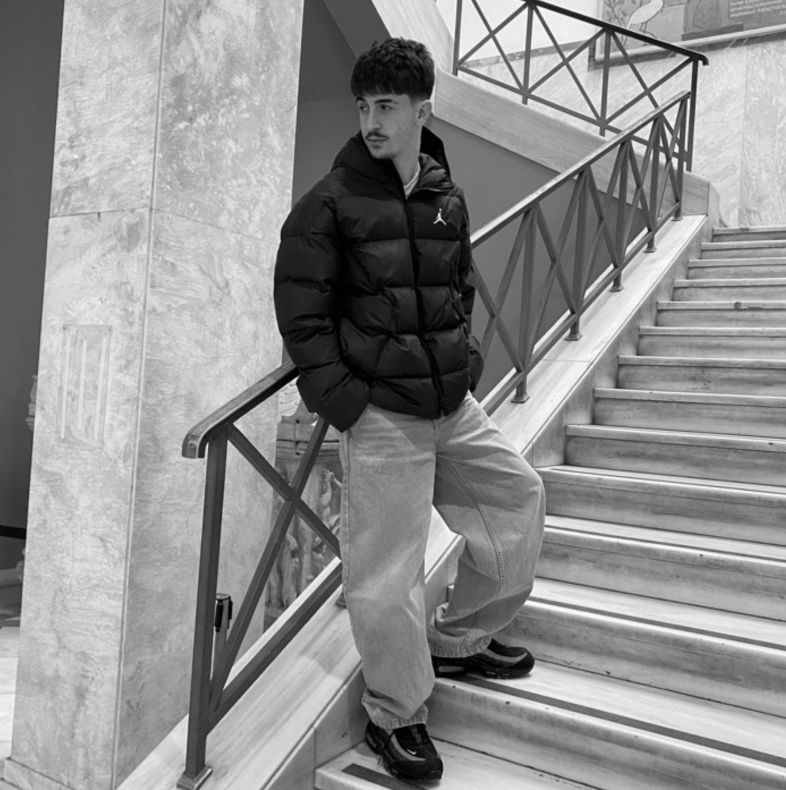
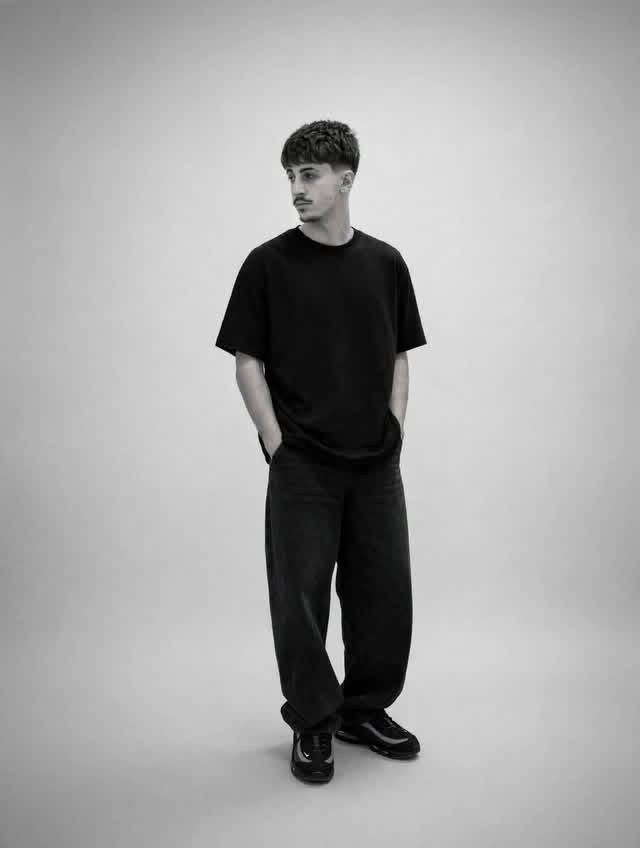
translate fixes

diff --git a/src/components/aura/GoogleTranslate.tsx b/src/components/aura/GoogleTranslate.tsx
@@ -64,27 +64,46 @@ export function GoogleTranslateWidget() {
   const changeLanguage = (lang: string) => {
     setCurrentLang(lang);
 
-    // Thoroughly clear cookies across all domains and paths for Mobile/Desktop sync
-    const hostname = window.location.hostname;
-    const domains = [hostname, `.${hostname}`, hostname.replace(/^www\./, "")];
+    // Bulletproof cookie cleanup for all variations set by Google Translate or the app
+    const clearGoogleTranslateCookies = () => {
+      const hostname = window.location.hostname;
+      const domains = [hostname, `.${hostname}`, hostname.replace(/^www\./, "")];
 
-    domains.forEach((domain) => {
-      document.cookie = `googtrans=; expires=Thu, 01 Jan 1970 00:00:00 UTC; path=/; domain=${domain};`;
-      document.cookie = `googtrans=; expires=Thu, 01 Jan 1970 00:00:00 UTC; path=/;`;
-    });
+      // Clear by reading all cookies and matching 'googtrans' dynamically
+      document.cookie.split(";").forEach((cookie) => {
+        const eqPos = cookie.indexOf("=");
+        const name = eqPos > -1 ? cookie.substr(0, eqPos).trim() : cookie.trim();
+        if (name === "googtrans") {
+          domains.forEach((dom) => {
+            document.cookie = `${name}=; expires=Thu, 01 Jan 1970 00:00:00 UTC; path=/; domain=${dom};`;
+            document.cookie = `${name}=; expires=Thu, 01 Jan 1970 00:00:00 UTC; path=/;`;
+          });
+        }
+      });
 
+      // Fallback explicit domain/path cleanup
+      domains.forEach((dom) => {
+        document.cookie = `googtrans=; expires=Thu, 01 Jan 1970 00:00:00 UTC; path=/; domain=${dom};`;
+        document.cookie = `googtrans=; expires=Thu, 01 Jan 1970 00:00:00 UTC; path=/;`;
+      });
+    };
+
+    clearGoogleTranslateCookies();
+
+    // If switching to a non-default language, set the new cookie
     if (lang !== "en") {
+      const hostname = window.location.hostname;
       document.cookie = `googtrans=/en/${lang}; path=/; domain=${hostname}`;
       document.cookie = `googtrans=/en/${lang}; path=/;`;
     }
 
-    // Force reload to apply translation states correctly on mobile/desktop
+    // Force page reload to clear Google Translate internal cache frames cleanly
     window.location.reload();
   };
 
   return (
     <div className="relative inline-block">
-      {/* Hidden Google Translate Element container optimized for mobile/desktop rendering */}
+      {/* Hidden Google Translate Element container */}
       <div 
         id="google_translate_element" 
         className="absolute opacity-0 pointer-events-none w-0 h-0 overflow-hidden"
